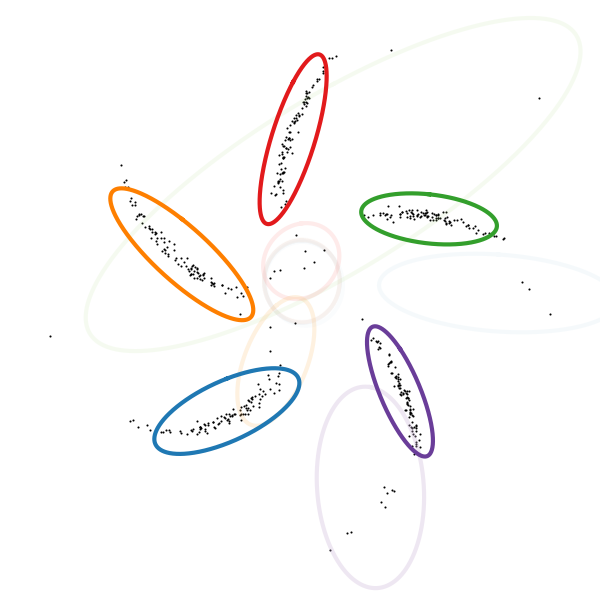
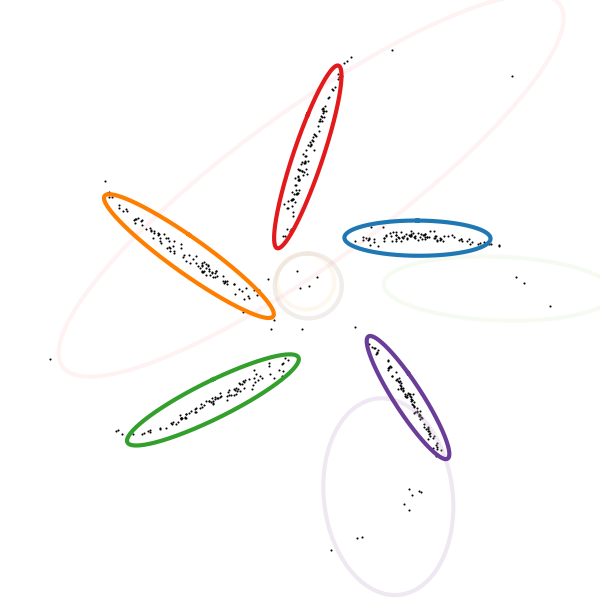
Re-rendered after more iterations

diff --git a/experiments/gmm_svae_synth_plot_pdfs.py b/experiments/gmm_svae_synth_plot_pdfs.py
@@ -147,15 +147,15 @@ if __name__ == "__main__":
 
     fig1, fig2, ax1, ax2 = make_figure()
     with open('gmm_svae_synth_params.pkl') as infile:
-        for itr in range(500):
+        for itr in range(20000):
             try:
-                pickle.load(infile)
+                stuff = pickle.load(infile)
                 print "."
             except EOFError:
                 pass
 
         print "Plotting..."
-        plot(itr, (ax1, ax2), data, pickle.load(infile))
+        plot(itr, (ax1, ax2), data, stuff)
 
         print "Saving..."
         filename = 'figures/mainfig_mix_observed.png'
